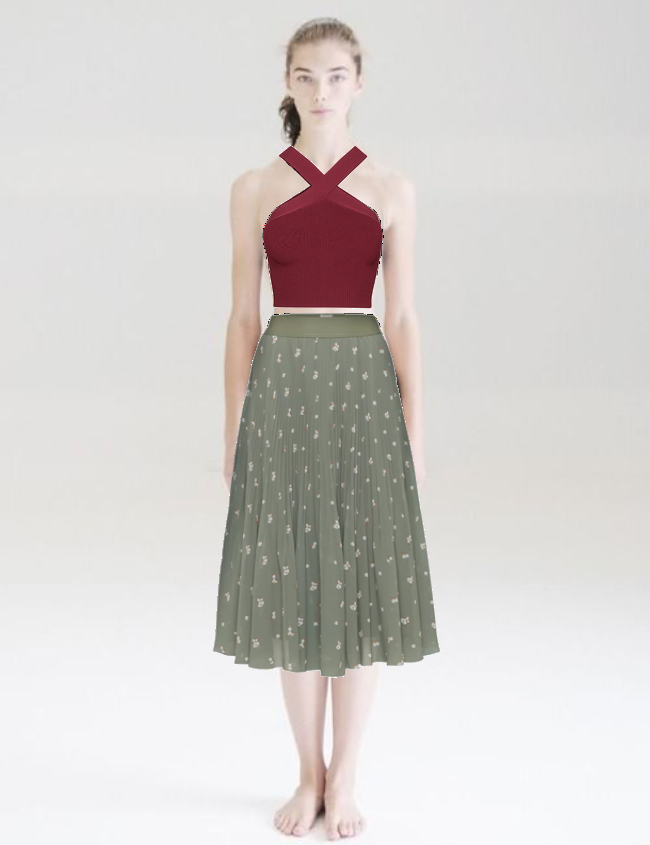
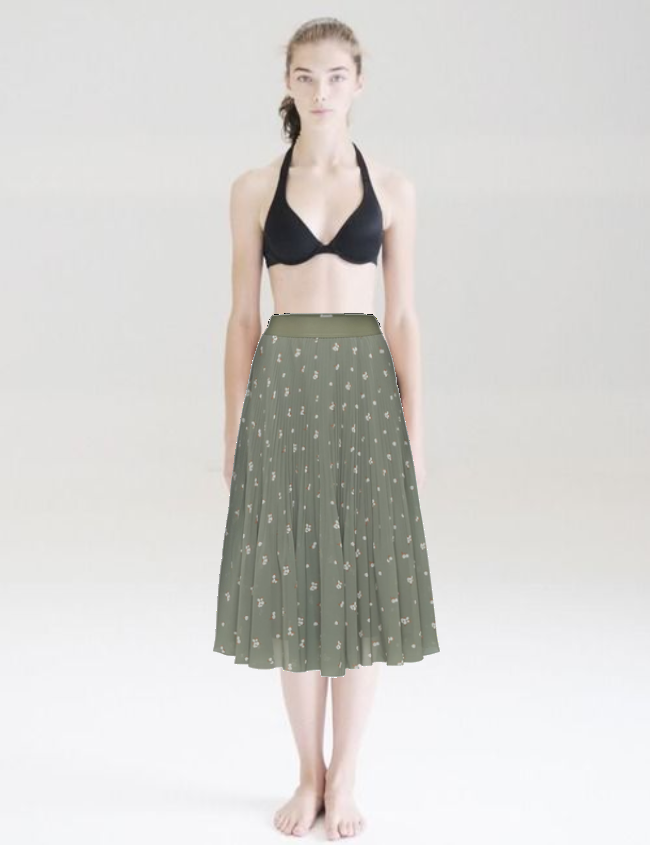
add and remove functionality added

Changed region(s): [[0.4, 0.1538, 0.6154, 0.3692]]

diff --git a/girlcode-app/src/App.js b/girlcode-app/src/App.js
@@ -1,33 +1,31 @@
 function changeDressImage() {
   if (document.getElementById("model").src.match("modeldress.png")) {
-    document.getElementById("model").src="modelresized.png";
+    document.getElementById("model").src = "modelresized.png";
   } else {
-    document.getElementById("model").src="modeldress.png";
+    document.getElementById("model").src = "modeldress.png";
   }
+}
+
+function changeSkirtImage() {
+ if (document.getElementById("model").src.match("modelshirt.png")) {
+    document.getElementById("model").src = "modelfull.png";
+  } else if (document.getElementById("model").src.match("modelfull.png")) {
+   document.getElementById("model").src = "modelskirt.png";
+ } else if (document.getElementById("model").src.match("modelskirt.png")) {
+   document.getElementById("model").src = "modelresized.png";
+ } else {
+   document.getElementById("model").src = "modelskirt.png";
+ }
 }
 
 function changeShirtImage() {
-  if (document.getElementById("model").src.match("modeljustskirt.png")) {
-    document.getElementById("model").src="modelskirt.png";
-  }  else if (document.getElementById("model").src.match("modelshirt.png")) {
-    document.getElementById("model").src="modelresized.png";
-  } else if (document.getElementById("model").src.match("modelskirt.png")){
-    document.getElementById("model").src="modeljustskirt.png";
-  }else{
-    document.getElementById("model").src="modelshirt.png";
-  }
-  
-}
-
-function addSkirtImage() {
-  if (document.getElementById("model").src.match("modeldress.png")||document.getElementById("model").src.match("modelresized.png"))  {
-    document.getElementById("model").src="modeljustskirt.png";
-  } else if (document.getElementById("model").src.match("modeljustskirt.png")) {
-    document.getElementById("model").src="modelresized.png";
+  if (document.getElementById("model").src.match("modelfull.png")) {
+    document.getElementById("model").src = "modelskirt.png";
   } else if (document.getElementById("model").src.match("modelskirt.png")) {
-    document.getElementById("model").src="modelshirt.png";
+    document.getElementById("model").src = "modelfull.png";
+  } else if (document.getElementById("model").src.match("modelshirt.png")) {
+    document.getElementById("model").src = "modelresized.png";
   } else {
-    document.getElementById("model").src="modelskirt.png";
+    document.getElementById("model").src = "modelshirt.png";
   }
-
 }

diff --git a/girlcode-app/src/App.html b/girlcode-app/src/App.html
@@ -1,13 +1,9 @@
 <html>
   <link rel="stylesheet" href="App.css">
   <script src="App.js"></script>
-    <header><!--
-      <h1>Shirt</h1>
-      
-      <h1>Dress</h1>
-      <h1>Skirt</h1>
-      <h1>Image</h1> --> 
-      <button class="buttonsk" id="skirt" onclick = "addSkirtImage()"></button>
+    <header>
+
+      <button class="buttonsk" id="skirt" onclick = "changeSkirtImage()"></button>
       <button class="buttonsh" id="shirt" onclick="changeShirtImage()"></button>
       <button class="buttondress" id="dress" onclick = "changeDressImage()"></button>
       <img id="model" src="modelresized.png" className="model" alt=""/>
